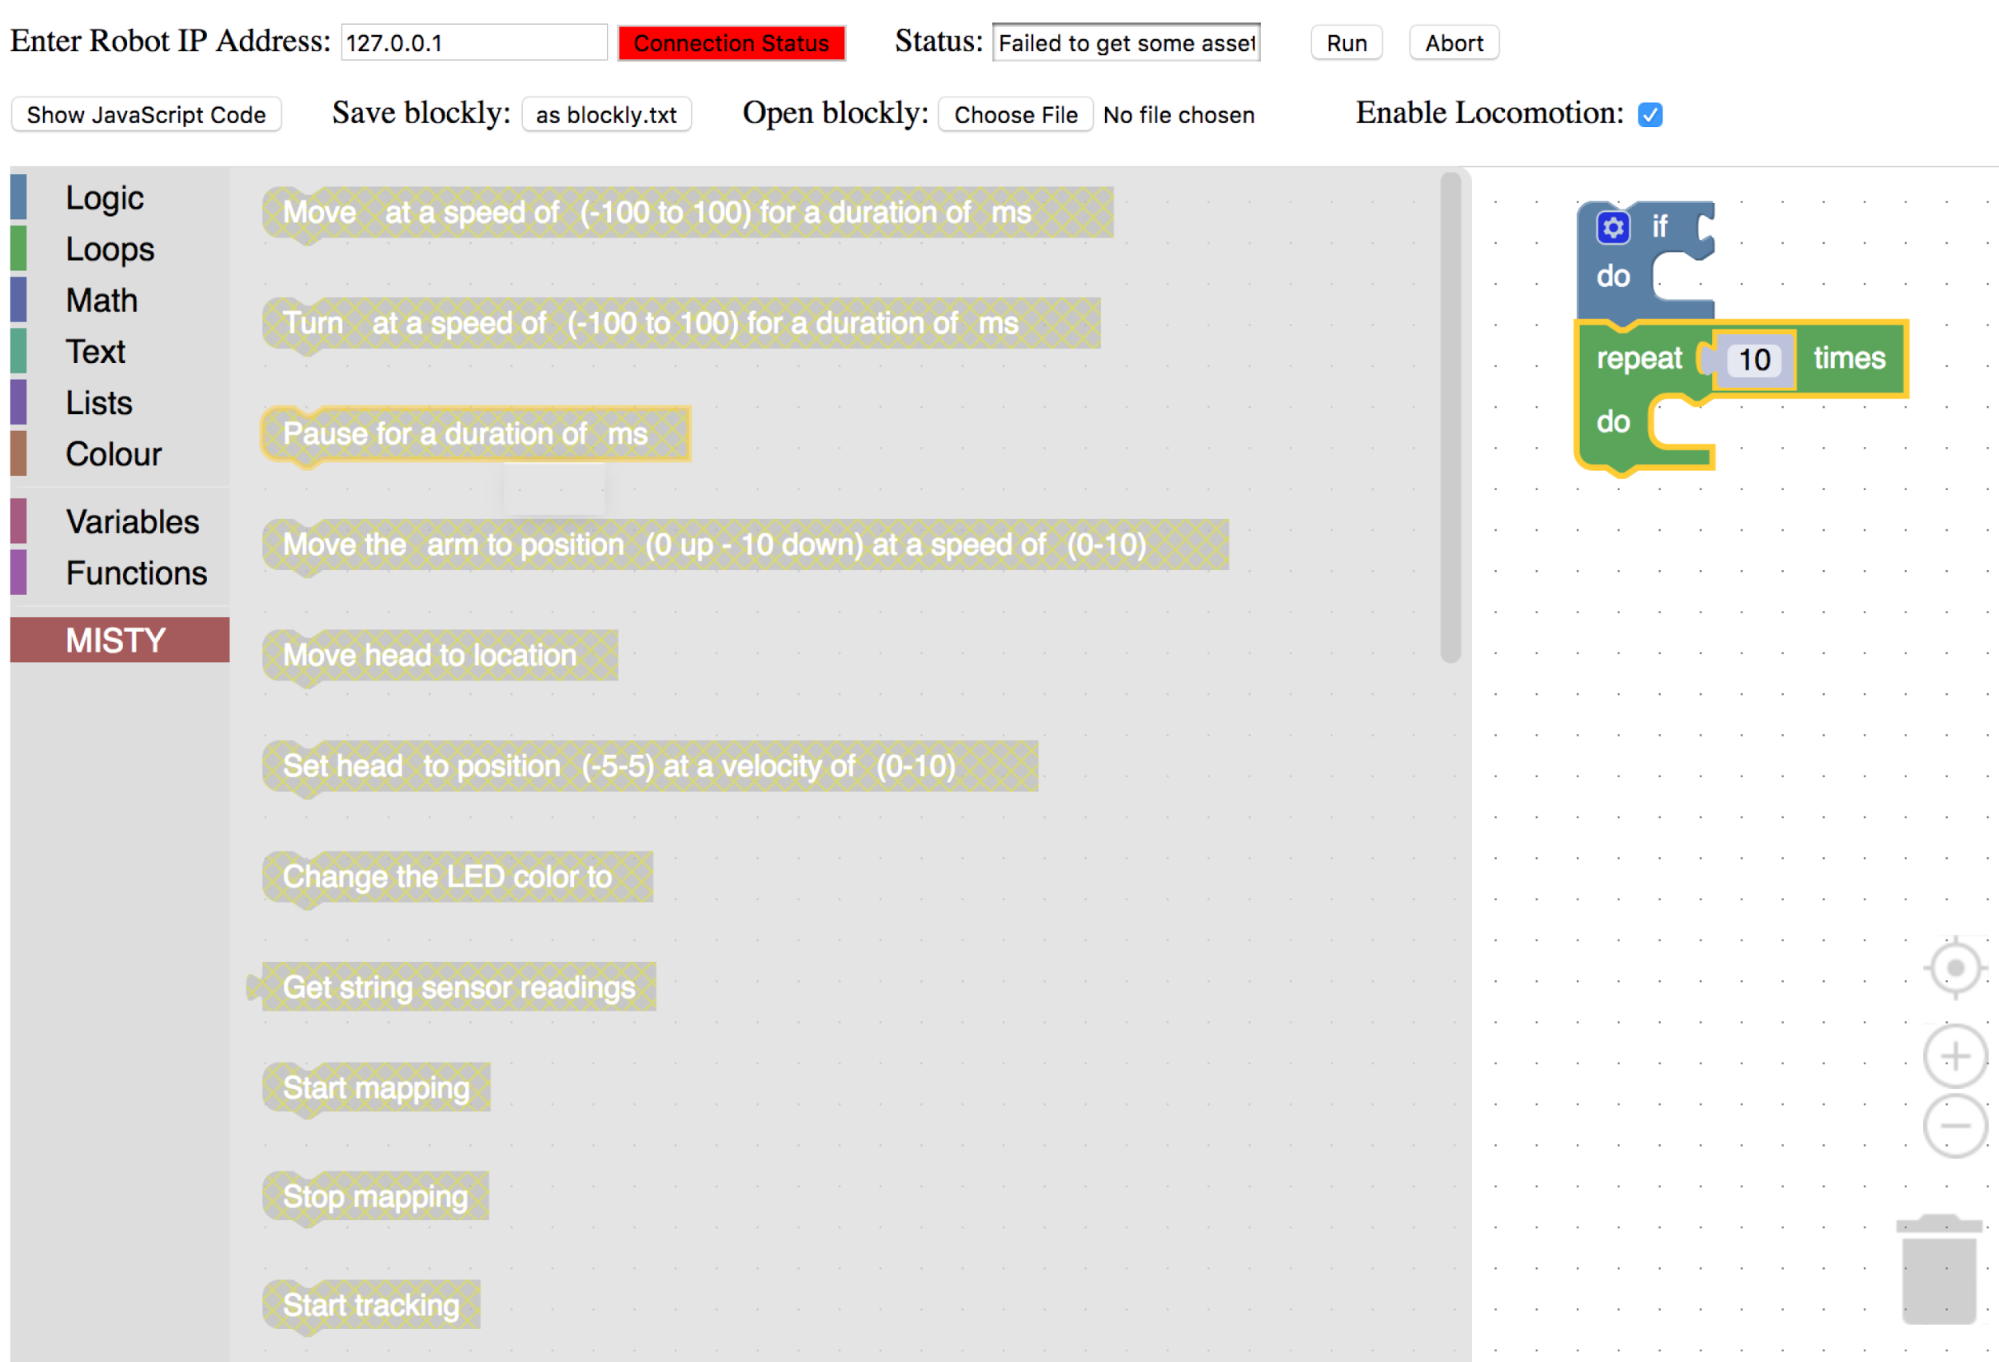
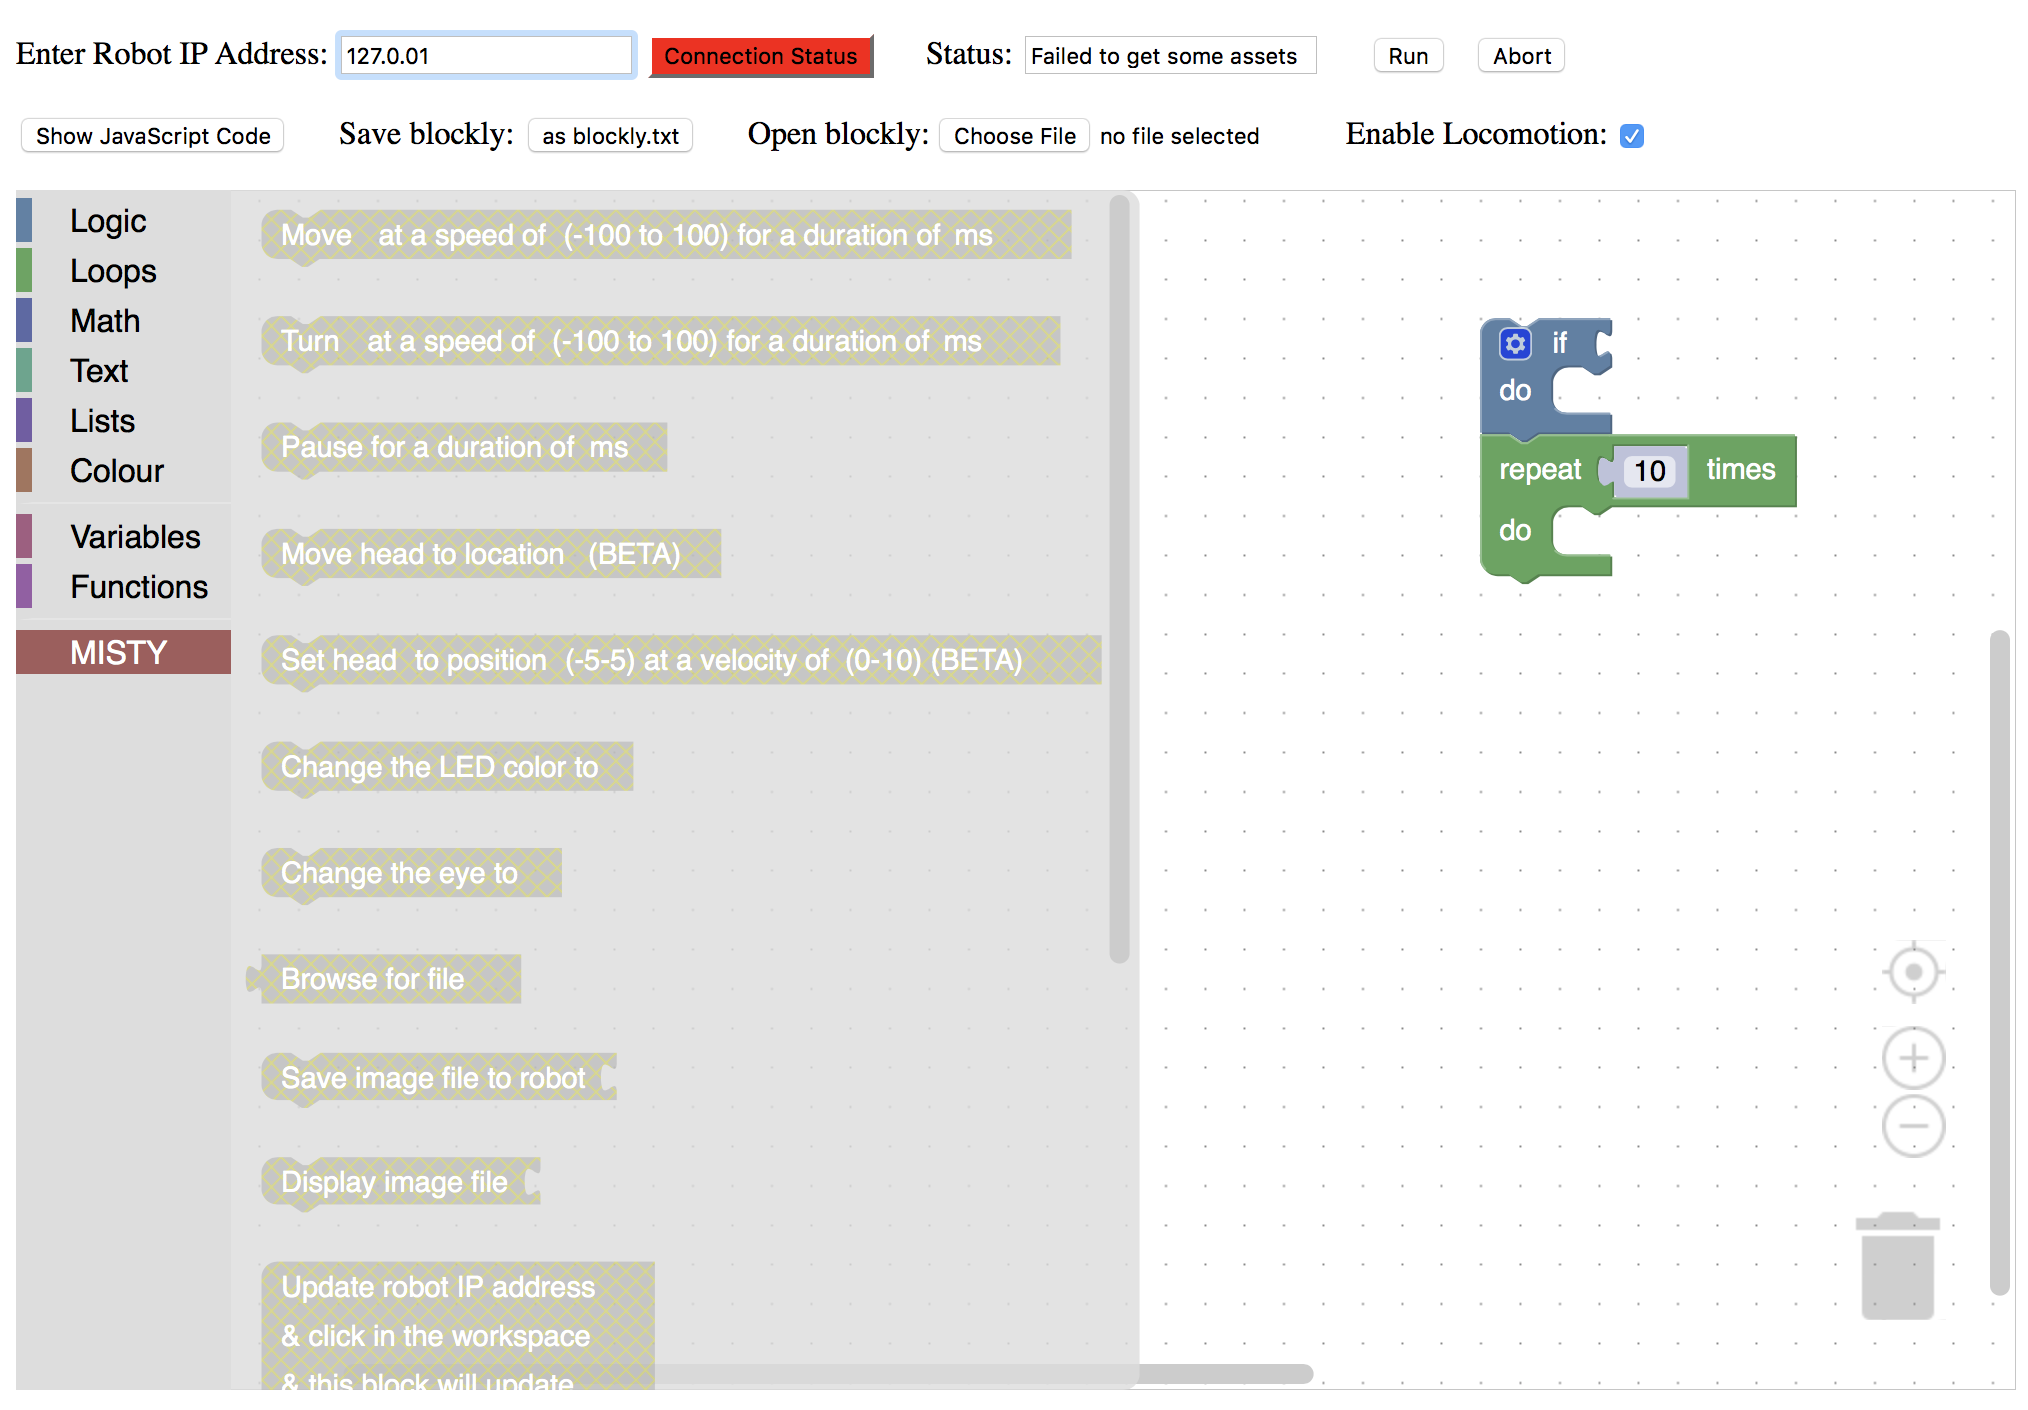
updates to blockly and api explorer pages

diff --git a/src/content/onboarding/3-ways-to-interact-with-misty/blockly.md b/src/content/onboarding/3-ways-to-interact-with-misty/blockly.md
@@ -11,6 +11,8 @@ Blockly is a block-based, visual programming language editor that runs in your b
 
 Read on to set Blockly up with Misty, try a few simple Blockly programs, and get detailed information on Misty's Blockly commands. 
 
+**Note: It's not generally recommended for multiple users to each use a separate instance of Blockly to connect and send commands to a single Misty robot. If more than one person does connect to Misty at the same time, as in a class or group development environment, people will need to take turns sending commands, or Misty may appear to respond unpredictably.**
+
 ![Blockly](../../../assets/images/blockly.png)
 
 
@@ -87,18 +89,11 @@ Then:
 3. Click Run.
 
 
-### Other Things to Try...
-* Move Misty's head (beta).
-* Mapping - For best results at this time, we recommend you try mapping with the [API Explorer](../../3-ways-to-interact-with-misty/api-explorer), rather than with Blockly or the Companion App.
-
-
 ## Blockly Commands
 
 The following are descriptions of the Misty-specific Blockly commands.
 
 **Note: When using Blockly, after clicking Run, there currently can be a 2-3 second delay before Misty reacts, and up to a 5-second delay between actions.**
-
-**Important: Commands noted as "Beta" may behave unpredictably. "Alpha" Commands may be partially or entirely non-functional at this time.**
 
 
 ### Move at speed for duration
@@ -150,13 +145,40 @@ Parameters
 * File: When you click on this block, a browse file dialog is displayed to allow for file selection. Valid image file types are .jpg, .jpeg, .gif, .png. All audio file types are valid, however Misty cannot currently play OGG files. Maximum file size is 3 MB.
 
 
-### List audio files
-Lists the existing audio files on Misty. Connect this block to a "Play audio file" block to select a sound to play.
+### Save image file
+Saves an image file to Misty. This block **must** connect with the "Browse for file" block, to select the image file to be saved.
 
-![Listaudio](../../../assets/images/listaudio.png)
+![Saveimage](../../../assets/images/saveimage.png)
 
 Parameters
-* File: An existing audio file stored on Misty.
+* File: The image file to save to Misty from the "Browse for file" block. Valid image file types are .jpg, .jpeg, .gif, .png. Maximum file size is 3 MB. Misty's screen is 480 x 272 pixels in size. Because Misty does not adjust the scaling of images, for best results use an image with proportions similar to this.
+
+
+### Display image file
+Sets the current image being displayed on Misty's screen. This block **must** connect with the "List image files" block, to select the image file to display.
+
+Parameters
+* Filename: The name of the file containing the image to display, selected from the "List image files" block.
+
+![Display image](../../../assets/images/display_image.png)
+
+
+### List available images
+Obtains a list of the images currently stored on Misty. Connect this with a "Display image file" block to select a file to display on Misty's screen.
+
+![List image files](../../../assets/images/list_image.png)
+
+Parameters
+* None
+
+
+### Revert display image
+Changes Misty's screen to display the previous image.
+
+![Revert image](../../../assets/images/revert_image.png)
+
+Parameters
+* None
 
 
 ### Play audio file
@@ -177,46 +199,22 @@ Parameters
 * File: The audio file to save to Misty from the "Browse for file" block. This command accepts all audio format types, however Misty cannot currently play OGG files. The maximum file size is 3 MB.
 
 
-### Save image file
-Saves an image file to Misty. This block **must** connect with the "Browse for file" block, to select the image file to be saved.
+### List available audio files
+Lists the existing audio files on Misty. Connect this block to a "Play audio file" block to select a sound to play.
 
-![Saveimage](../../../assets/images/saveimage.png)
-
-Parameters
-* File: The image file to save to Misty from the "Browse for file" block. Valid image file types are .jpg, .jpeg, .gif, .png. Maximum file size is 3 MB. Misty's screen is 480 x 272 pixels in size. Because Misty does not adjust the scaling of images, for best results use an image with proportions similar to this.
-
-
-### Display image file
-Sets the current image being displayed on Misty's screen. This block **must** connect with the "List image files" block, to select the image file to display.
+![Listaudio](../../../assets/images/listaudio.png)
 
 Parameters
-* Filename: The name of the file containing the image to display, selected from the "List image files" block.
+* File: An existing audio file stored on Misty.
 
-![Display image](../../../assets/images/display_image.png)
-
-
-### List image files
-Obtains a list of the images currently stored on Misty. Connect this with a "Display image file" block to select a file to display on Misty's screen.
-
-![List image files](../../../assets/images/list_image.png)
-
-Parameters
-* None
-
-
-### Revert display image
-Changes Misty's screen to display the previous image.
-
-![Revert image](../../../assets/images/revert_image.png)
-
-Parameters
-* None
 
 ----------
 ## Beta Commands
 
+**Important: Commands noted as "Beta" have limited functionality or may behave unpredictably at this time.**
+
 ### Move head to location - BETA
-Moves Misty's head to a given location.
+Moves Misty's head to a given location. **Note: Misty I can only move her head up, down, or to the center.**
 
 ![Head1](../../../assets/images/head1.png)
 
@@ -225,62 +223,19 @@ Parameters
 
 
 ### Set head to position - BETA
-Moves Misty's head in one of three axes (tilt, turn, or up-and-down).
+Moves Misty's head up or down to a given position.
 
 ![Head2](../../../assets/images/head2.png)
 
 Parameters
-* Axis: Yaw (turning left or right), pitch (moving up and down) or roll (tilting Misty's head toward her shoulder).
 * Position: A value from -5 to 5 specifying the amount of movement.
 * Velocity: A value from 0 (stopped) to 10 (full speed).
-
-
-
-----------
-## Alpha Commands
-
-
-### Start / Stop mapping - ALPHA
-Starts or stops Misty's mapping of an area.
-
-![Mapping](../../../assets/images/mapping.png)
-
-Parameters
-* None
-
-
-### Start / Stop tracking - ALPHA
-Starts or stops Misty tracking her location on a previously generated map.
-
-![Tracking](../../../assets/images/tracking.png)
-
-Parameters
-* None
-
-
-### Follow path - ALPHA
-Drives Misty on a specified path.
-
-![Followpath](../../../assets/images/followpath.png)
-
-Parameters
-* Path: A string of (x,y) coordinates for the path to follow. These must be obtained from a previously generated map.
 
 
 ----------
 ## Not Recommended Commands
 
-### Set affect
-Not currently recommended for use.
-
 ### Change the eye
 Not currently recommended for use. Use the "Display image file" block to change Misty's eyes.
 
-### Hallucinate object
-Not currently recommended for use.
 
-### Get string sensor readings
-Not currently recommended for use.
-
-### Move arm to position
-Not currently recommended for use.

diff --git a/src/content/onboarding/3-ways-to-interact-with-misty/api-explorer.md b/src/content/onboarding/3-ways-to-interact-with-misty/api-explorer.md
@@ -9,6 +9,8 @@ order: 7
 
 When you use the API Explorer in your browser, you can use Misty's API endpoints to try Misty out, without writing any code. We recommend using the API Explorer with the following browsers: Safari, Chrome, Firefox, and Microsoft Edge (latest versions).
 
+**Note: It's not generally recommended for multiple users to each use a separate instance of the API Explorer to connect and send commands to a single Misty robot. If more than one person does connect to Misty at the same time, as in a class or group development environment, people will need to take turns sending commands, or Misty may appear to respond unpredictably.**
+
 ## Setting up the API Explorer
 As with the companion app and Blockly, when using the API Explorer, make sure your computer and Misty are on the same Wi-Fi network and using Bluetooth. ![API Explorer](../../../assets/images/api_client.png)
 
@@ -201,7 +203,7 @@ To perform an update:
 5. Plug a USB mouse directly into the board as shown. ![Plugging USB into the 410 board](../../../assets/images/410_plug.jpg)
 6. Once you have connected the mouse to Misty, click **Okay** on the message on her screen that asks you to update and restart. ![Update message](../../../assets/images/update_message.png)
 7. Misty will restart, and the Misty Robotics logo will appear. Misty's eyes may briefly display before they are replaced by an **Updating...** image. **Note: The update process may take up to a half hour.** ![Updating screen](../../../assets/images/updating.png)
-8. If the update is successful, Misty will play a cheerful sound and her eyes will appear happy for 2 seconds, before changing back to their default appearance. If the update failed, Misty plays a sad sound and her eyes appear sad for seconds. **Note: If the update fails, contact support.**
+8. If the update is successful, Misty will play a cheerful sound and her eyes will appear happy for 2 seconds, before changing back to their default appearance. If the update failed, Misty plays a sad sound and her eyes appear sad for seconds. **Note: If the update fails, do not hesitate to reach out for assistance on any of the Misty Robotics support channels. If the update experience has other issues or is not as described in these steps, we encourage you [to comment in this thread](https://community.mistyrobotics.com/t/report-system-upgrade-issues-here/355).**
 
 
 ### Completing a system update by connecting to the Windows IoT Core remote server (Windows only)
@@ -213,7 +215,7 @@ To perform an update:
 5. Open up the Windows IoT Remote Client app, enter the IP address of your robot, and click **Connect**. ![Windows IoT connection dialog](../../../assets/images/connect_iot.png)
 6. You should now see the same content that is visible on Misty’s screen.  Click **Okay** on the message that asks you to update and restart. ![Update message](../../../assets/images/update_message.png)
 7. Misty will restart, and the Misty Robotics logo will appear. Misty's eyes may briefly display before they are replaced by an **Updating...** image. **Note: The update process may take up to a half hour.** ![Updating screen](../../../assets/images/updating.png)
-8. If the update is successful, Misty will play a cheerful sound and her eyes will appear happy for 2 seconds, before changing back to their default appearance. If the update failed, Misty plays a sad sound and her eyes appear sad for seconds. **Note: If the update fails, contact support.**
+8. If the update is successful, Misty will play a cheerful sound and her eyes will appear happy for 2 seconds, before changing back to their default appearance. If the update failed, Misty plays a sad sound and her eyes appear sad for seconds.  **Note: If the update fails, do not hesitate to reach out for assistance on any of the Misty Robotics support channels. If the update experience has other issues or is not as described in these steps, we encourage you [to comment in this thread](https://community.mistyrobotics.com/t/report-system-upgrade-issues-here/355).**
 
 
 ## Exploring the JavaScript Code

diff --git a/src/content/onboarding/3-ways-to-interact-with-misty/companion-app.md b/src/content/onboarding/3-ways-to-interact-with-misty/companion-app.md
@@ -9,11 +9,13 @@ order: 2
 
 If you haven’t already received an email from HockeyApp or TestFlight with instructions on how to download the mobile app, please send a note to **help @ mistyrobotics.com** and let us know which app (iOS or Android) you’d like. 
 
-**Note: When using the companion app, you should connect Misty to both Bluetooth and Wi-Fi. Keep reading for connection instructions.**
+**Note: It's not generally recommended for multiple users to each use a separate instance of the companion app to connect and send commands to a single Misty robot. If more than one person does connect to Misty at the same time, as in a class or group development environment, people will need to take turns sending commands, or Misty may appear to respond unpredictably.**
+
+**Important! When using the companion app, you should connect Misty to both Bluetooth and Wi-Fi. Keep reading for connection instructions.**
 
 ## Connect to Misty via Bluetooth
 
-1. Once you’ve downloaded and opened the app, make sure to turn on Bluetooth on your phone.
+1. Once you’ve downloaded and opened the app, make sure to turn on Bluetooth on your phone. 
 2. Select the Bluetooth icon in the upper right of the app. The app will search for nearby robots and list those it finds. Your robot’s name should appear in the app.
 ![Companion App Info tab](../../../assets/images/bluetooth_and_app.png)
 3. Select your robot’s name to connect to the robot. When connected, two dots will appear in the Bluetooth icon on your phone.
